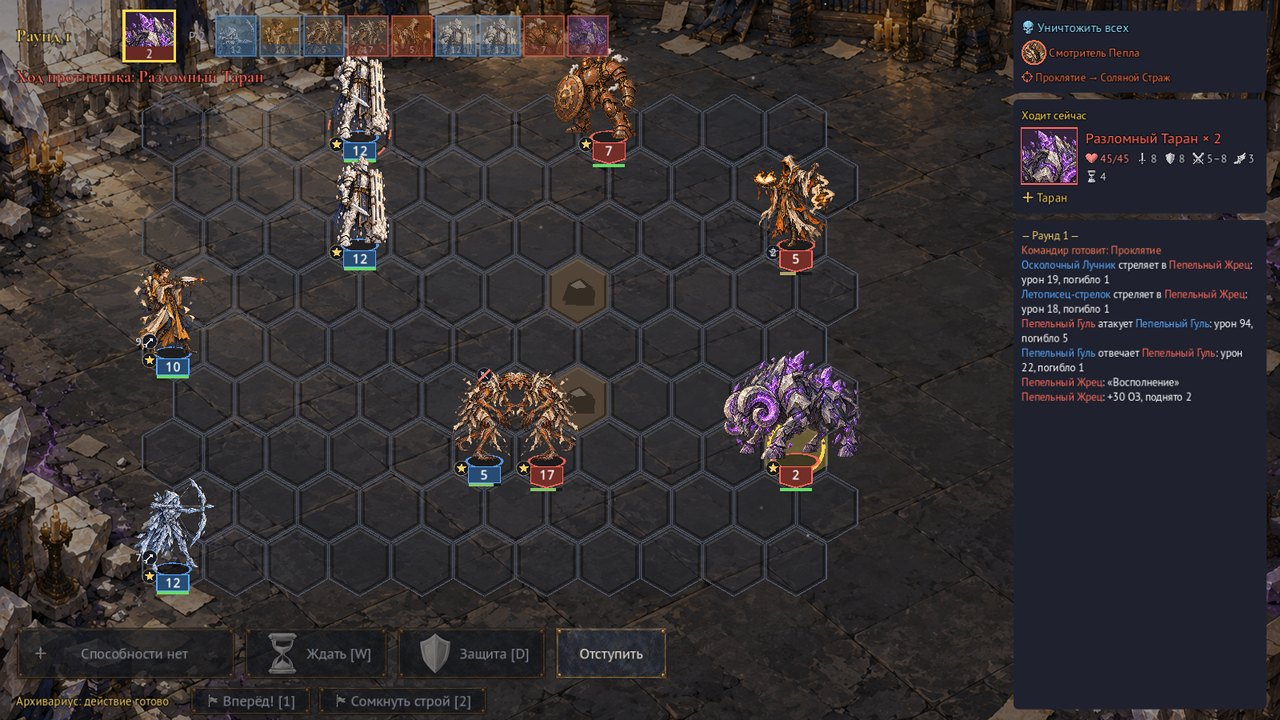
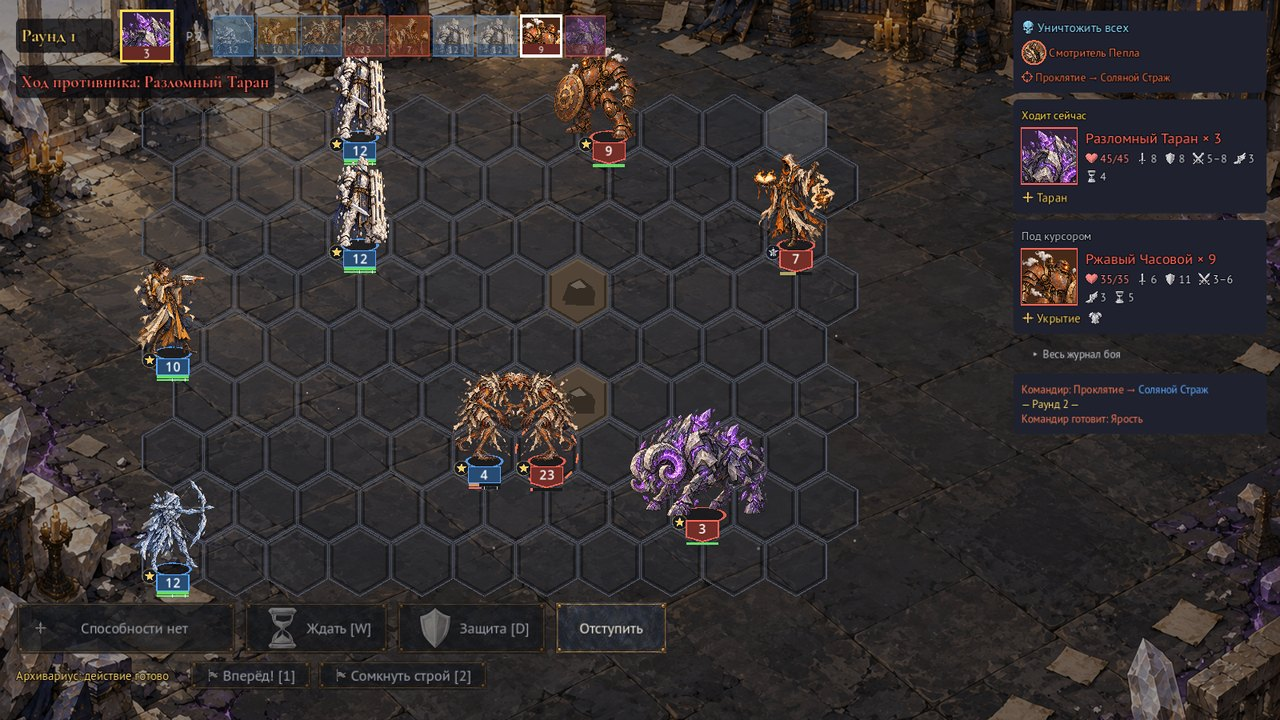
Docs: refresh README, spec statuses and screenshots
- Spec status lines: Sprint 8 stage B moved to Sprint 9, Sprints 9-11
  playtests done, SPEC.md implemented in Sprint 1
- README: fifth battle objective, economy and reinforcement, school own
  cards, art and music notes, tools table (duplicate screenshots row,
  gen_audio_preview, windowed-only scenes), autoload list
- Screenshots retaken with the current UI (plates, damage breakdown,
  "you are here" marker, collapsed log), captions updated

diff --git a/README.md b/README.md
@@ -13,11 +13,11 @@
 | | |
 |---|---|
 | ![Бой в Архиве](docs/screenshots/battle.jpg) | ![Бой в Затопленных хранилищах](docs/screenshots/battle_act2.jpg) |
-| Бой первого акта: стеки на гексах, очередь ходов, намерения командира, журнал боя | Второй акт: вода и течения на поле, подсвечены клетки хода |
+| Бой первого акта: стеки на гексах, очередь ходов, командир и цель боя | Второй акт: вода и течения, зона угрозы врага, разбор урона у курсора |
 | ![Карта экспедиции](docs/screenshots/map.jpg) | ![Выбор школы](docs/screenshots/school.jpg) |
 | Карта экспедиции: острова и мосты, риск боёв, отметка «Вы здесь» | Четыре школы памяти и выбор сложности |
 | ![Архив-лавка](docs/screenshots/shop.jpg) | ![Сценка пролога](docs/screenshots/story.jpg) |
-| Архив-лавка: воспоминания, ремонт и переработка карт | Сюжетная сценка: пролог |
+| Архив-лавка: воспоминания, ремонт изношенных карт, переработка | Сюжетная сценка: пролог |
 | ![Зал Архива](docs/screenshots/hall.jpg) | ![Летопись](docs/screenshots/chronicle.jpg) |
 | Зал Архива: улучшения и открытия между забегами | Летопись: страницы памяти по главам |
 
@@ -25,15 +25,15 @@
 
 ## Как играется
 
-- **Бой.** Поле из гексов 11×9 со стеками существ. Ходят по инициативе: можно ждать, обороняться, стрелять, бить в ответ, применять способности. Герой стоит вне поля и раз в раунд отдаёт приказ или колдует. У боёв разные цели: уничтожить всех, продержаться, защитить архив, убить цель.
+- **Бой.** Поле из гексов 11×9 со стеками существ. Ходят по инициативе: можно ждать, обороняться, стрелять, бить в ответ, применять способности. Герой стоит вне поля и раз в раунд отдаёт приказ или колдует. У боёв разные цели: уничтожить всех, продержаться, спасти архив, уничтожить цель, удержать знамёна.
 - **Кодекс Памяти.** Колода до 12 карт. Карта угасает по потерям своего стека в бою: почти без потерь — цела, большие потери стоят прочности, погибший целиком стек надламывает карту. После победы можно взять новое воспоминание или переработать старое: в заклинание, в улучшение героя, слить с другой картой или пожертвовать.
-- **Экспедиция.** Карта островов, связанных мостами; по мостам можно ходить в обе стороны и вернуться за пропущенными островами до Разлома. На островах — бои, элита, лавка, Тихая гавань, события, реликварии. Три ресурса: Чернила, Пергамент, Эфир. Разведка и перелёт между полосами стоят ресурсов.
+- **Экспедиция.** Карта островов, связанных мостами; по мостам можно ходить в обе стороны и вернуться за пропущенными островами до Разлома. На островах — бои, элита, лавка, Тихая гавань, события, реликварии. Три ресурса — Чернила, Пергамент, Эфир — их мало, тратить приходится с выбором: ремонт, новые карты, разведка, перелёт, подкрепление перед боем.
 - **Два акта.**
   - Первый акт — Архив, в конце босс: Разлом.
   - Между актами привал: ремонт Кодекса или дар.
   - Второй акт — Затопленные хранилища: постоянная вода, течения, чернильные облака. Финальный босс — Хозяин Глубин, у него две фазы.
-- **Враги.** Командиры с объявленными намерениями, 4 типа целей боя, 3 сложности: Легко, Нормально, Тяжело.
-- **Четыре школы памяти** со своими стартовыми колодами и пассивками: Архив Пепла, Орден Приливов, Машинный Синод, Сад Лиц.
+- **Враги.** Командиры с объявленными намерениями, 4 особые цели боя, 3 сложности: Легко, Нормально, Тяжело.
+- **Четыре школы памяти** со своими стартовыми колодами, пассивками и картами (в наградах — свои и общие): Архив Пепла, Орден Приливов, Машинный Синод, Сад Лиц.
 - **Между забегами.** Очки памяти, Зал Архива, Испытания 1–10, 20 достижений, Летопись забегов, лучший Кодекс каждой школы.
 - **История.** Метасюжет из четырёх глав раскрывается за много забегов: сценки между актами, реплики врагов, 24 страницы памяти в Летописи, сюжетные события на карте. Новичок начинает с учебного боя-пролога.
 - **Обучение и справочник.** Два учебных урока (бой; герой, Кодекс и карта), учебные первые забеги с ослабленными врагами, справочник по F1 с любого экрана и разбор урона у курсора в бою.
@@ -58,7 +58,7 @@
 | 11 | По внешнему плейтесту: справочник (F1), разбор урона у курсора, понятные превращения, второй учебный урок, учебные первые забеги; свои карты у школ, Колокольные водолазы, баланс карт по стенду силы, экономика «меньше и дороже» с подкреплением за Эфир |
 | 12 | По отзыву опытного игрока: износ карт от потерь в бою (−0/−1/−2, «надломлена»), сложность под человека, учебные забеги только после пролога, контраст текста (аудит), разгрузка экранов; музыка — позже |
 
-Арт переходит на рисованный (Спринт 9): картинки генерируются в ChatGPT по `art/CHATGPT_PROMPT.md` (срез) и `art/CHATGPT_PROMPT_B.md` (остальное), `art/CHATGPT_PROMPT_STORY.md` (сценки), `art/CHATGPT_PROMPT_S11.md` (Колокольные водолазы), кладутся в `art/raw/` и обрабатываются `tools/art_import.gd`. Где картинки нет — процедурный глиф. Музыка и звуки — из ChatGPT по `audio/CHATGPT_AUDIO_PROMPT.md`: кладутся в `audio/raw/`, импорт — `tools/audio_import.gd`; процедурный генератор остался запасным.
+Арт рисованный (со Спринта 9): картинки генерируются в ChatGPT по `art/CHATGPT_PROMPT.md` (срез) и `art/CHATGPT_PROMPT_B.md` (остальное), `art/CHATGPT_PROMPT_STORY.md` (сценки), `art/CHATGPT_PROMPT_S11.md` (Колокольные водолазы), кладутся в `art/raw/` и обрабатываются `tools/art_import.gd`. Где картинки нет — процедурный глиф. Музыка и звуки — из ChatGPT по `audio/CHATGPT_AUDIO_PROMPT.md` (переделка музыки запланирована): кладутся в `audio/raw/`, импорт — `tools/audio_import.gd`; процедурный генератор остался запасным.
 
 ## Запуск
 
@@ -96,17 +96,17 @@ godot --headless -s res://addons/gut/gut_cmdln.gd -gexit
 | Инструмент | Что делает |
 |---|---|
 | `sim_balance.gd -- N школа сложность` | Симулирует N забегов: доля дошедших до 2-го акта и полных побед (`--upgrades=`, `--trial=`, `--unlocks=all`, `--daily=`, `--cards`) |
-| `screenshots.tscn -- папка --contrast` | Скриншоты всех экранов и аудит контраста текста (WCAG; `--contrast-strict` — строже) |
+| `screenshots.tscn [-- папка] [--contrast]` | Скриншоты всех экранов; `--contrast` — аудит контраста текста (WCAG, `contrast_audit.gd`; `--contrast-strict` — строже) |
 | `card_power.gd -- [сидов] [карта]` | Стенд силы карт отрядов: каждая карта в одном составе против встреч своего акта, польза относительно средней по акту |
 | `stress.gd -- N` | Стресс-тест: все встречи × сложности × школы; конечность, детерминизм, сохранение посреди боя |
 | `autoplay.tscn -- сид школа сложность` | Автопрогон забега через настоящие экраны (`-- сид daily [дата]` — ежедневный забег) |
-| `profile_battle.tscn` | Замер FPS в бою |
+| `profile_battle.tscn` | Замер FPS и долгих кадров в бою, на карте и в меню |
+| `gen_audio_preview.gd` | Варианты процедурных звуков на выбор: `build/sound_preview/` |
 | `audio_import.gd` | Импорт присланной музыки и звуков: `audio/raw/` → `audio/…`, проверка пар, манифест |
 | `gen_audio.gd` | Процедурная музыка и звуки (синтез — `audio_synth.gd`); присланные файлы не трогает |
 | `art_import.gd [-- --force]` | Импорт рисованного арта: `art/raw/` → `art/<папка>/`, манифест |
-| `screenshots.tscn` | Снимки основных экранов |
 
-Скрипты (`.gd`) запускаются через `godot --headless -s res://tools/<имя>`, сцены (`.tscn`) — через `godot --headless res://tools/<имя>`.
+Скрипты (`.gd`) запускаются через `godot --headless -s res://tools/<имя>`, сцены (`.tscn`) — через `godot --path . res://tools/<имя>` (`autoplay.tscn` можно с `--headless`; `screenshots.tscn` и `profile_battle.tscn` — только в окне).
 
 ## Устройство кода
 
@@ -116,9 +116,9 @@ scripts/defs/       описания ресурсов данных и DefsDB (з
 scripts/domain/     состояние: BattleState, RunState, CodexState, ProfileState…
 scripts/systems/    правила: BattleResolver, ИИ, карта, лавка, события, сохранения…
 scripts/presentation/  экраны и интерфейс
-scripts/autoload/   Game, Audio, Settings, подсказки
+scripts/autoload/   Game, Audio, Settings, подсказки (Hints, Tip), справочник (Help), атлас значков
 tests/unit/     тесты
-tools/          симуляция, стресс, автопрогон, профилировщик
+tools/          симуляция, стенд силы карт, стресс, автопрогон, профилировщик, скриншоты и аудит контраста, импорт арта и звука
 ```
 
 Основные принципы:

diff --git a/specs/SPEC_SPRINT9.md b/specs/SPEC_SPRINT9.md
@@ -1,6 +1,6 @@
 # «Последний Архивариус» — спецификация Спринта 9: Рисованный Архив
 
-Статус: v0.9 (2026-10-10) — этап A: арт среза, достижения, ежедневный забег (разделы 17, 19); этап B: арт, звук, баланс (разделы 20–22); дальше — плейтест
+Статус: v0.9 (2026-10-10) — этап A: арт среза, достижения, ежедневный забег (разделы 17, 19); этап B: арт, звук, баланс (разделы 20–22); плейтест пройден (замечания по звуку исправлены в этом спринте, остальные — в Спринтах 11–12)
 
 Спринт 9 меняет облик игры: процедурные глифы уступают место рисованным 2D-картинкам. Картинки генерирует автор в ChatGPT по промптам из раздела 16, игра подхватывает их скриптом импорта. В спринт также переходит этап B Спринта 8 (достижения, ежедневный забег) и пересмотр баланса всех сложностей.
 

diff --git a/specs/SPEC_SPRINT10.md b/specs/SPEC_SPRINT10.md
@@ -1,6 +1,6 @@
 # «Последний Архивариус» — спецификация Спринта 10: Сюжет и обучение
 
-Статус: v0.5 (2026-10-11) — этапы A и B реализованы (разделы 15–16); дальше — итоговый плейтест спринта
+Статус: v0.5 (2026-10-11) — этапы A и B реализованы (разделы 15–16); спринт завершён, отзывы плейтеста — в [Спринте 11](SPEC_SPRINT11.md)
 
 Спринт 10 даёт игре историю и вход для новичка. История рассказывается метасюжетом: одна линия раскрывается за много забегов — сценками между актами, репликами врагов, собранными «страницами памяти» и сюжетными событиями на карте. Новичок начинает с короткого учебного боя-пролога.
 

diff --git a/specs/SPEC_SPRINT8.md b/specs/SPEC_SPRINT8.md
@@ -1,6 +1,6 @@
 # «Последний Архивариус» — спецификация Спринта 8: Метапрогрессия
 
-Статус: v0.2 (2026-10-03) — этап A реализован (раздел 15), этап B — после плейтеста
+Статус: v0.3 (2026-10-13) — этап A реализован (раздел 15); этап B (достижения, ежедневный забег, баланс с прокачкой) перенесён в [Спринт 9](SPEC_SPRINT9.md) и там реализован
 
 Спринт 8 даёт причину возвращаться после первой победы. Между забегами — Зал Архива с деревом улучшений. Для опытных игроков — 10 ступеней Испытаний. Ещё в спринте: достижения и ежедневный забег. У второго акта появляется своя музыка.
 

diff --git a/specs/SPEC_SPRINT11.md b/specs/SPEC_SPRINT11.md
@@ -1,6 +1,6 @@
 # «Последний Архивариус» — спецификация Спринта 11: Ясность и баланс
 
-Статус: v0.6 (2026-10-11) — этапы A и B реализованы (разделы 15–16), арт Колокольных водолазов импортирован; дальше — плейтест
+Статус: v0.6 (2026-10-11) — этапы A и B реализованы (разделы 15–16), арт Колокольных водолазов импортирован; спринт завершён, следующий отзыв — в [Спринте 12](SPEC_SPRINT12.md)
 Основа: [SPEC.md](SPEC.md) … [SPEC_SPRINT10.md](SPEC_SPRINT10.md). Всё, что здесь не изменено, остаётся в силе.
 
 Спринт 11 отвечает на внешний плейтест (2026-10-11, независимые игроки). Что сказали:

diff --git a/specs/SPEC.md b/specs/SPEC.md
@@ -1,6 +1,6 @@
 # «Последний Архивариус» — спецификация Спринта 1
 
-Статус: черновик v0.3 (2026-10-02) — читаемость поля боя (6.5), производительность отрисовки (6.6)
+Статус: v0.3 (2026-10-02) — реализовано в Спринте 1 (дополнено: читаемость поля боя 6.5, производительность отрисовки 6.6); дальнейшие изменения — в спеках спринтов
 Движок: Godot 4.7.2 (`C:\Godot`), GDScript
 Цель спринта: «скучный, но полный» прототип. Проверяем, интересен ли бой, хочется ли менять состав армии и работает ли распад воспоминаний.
 
